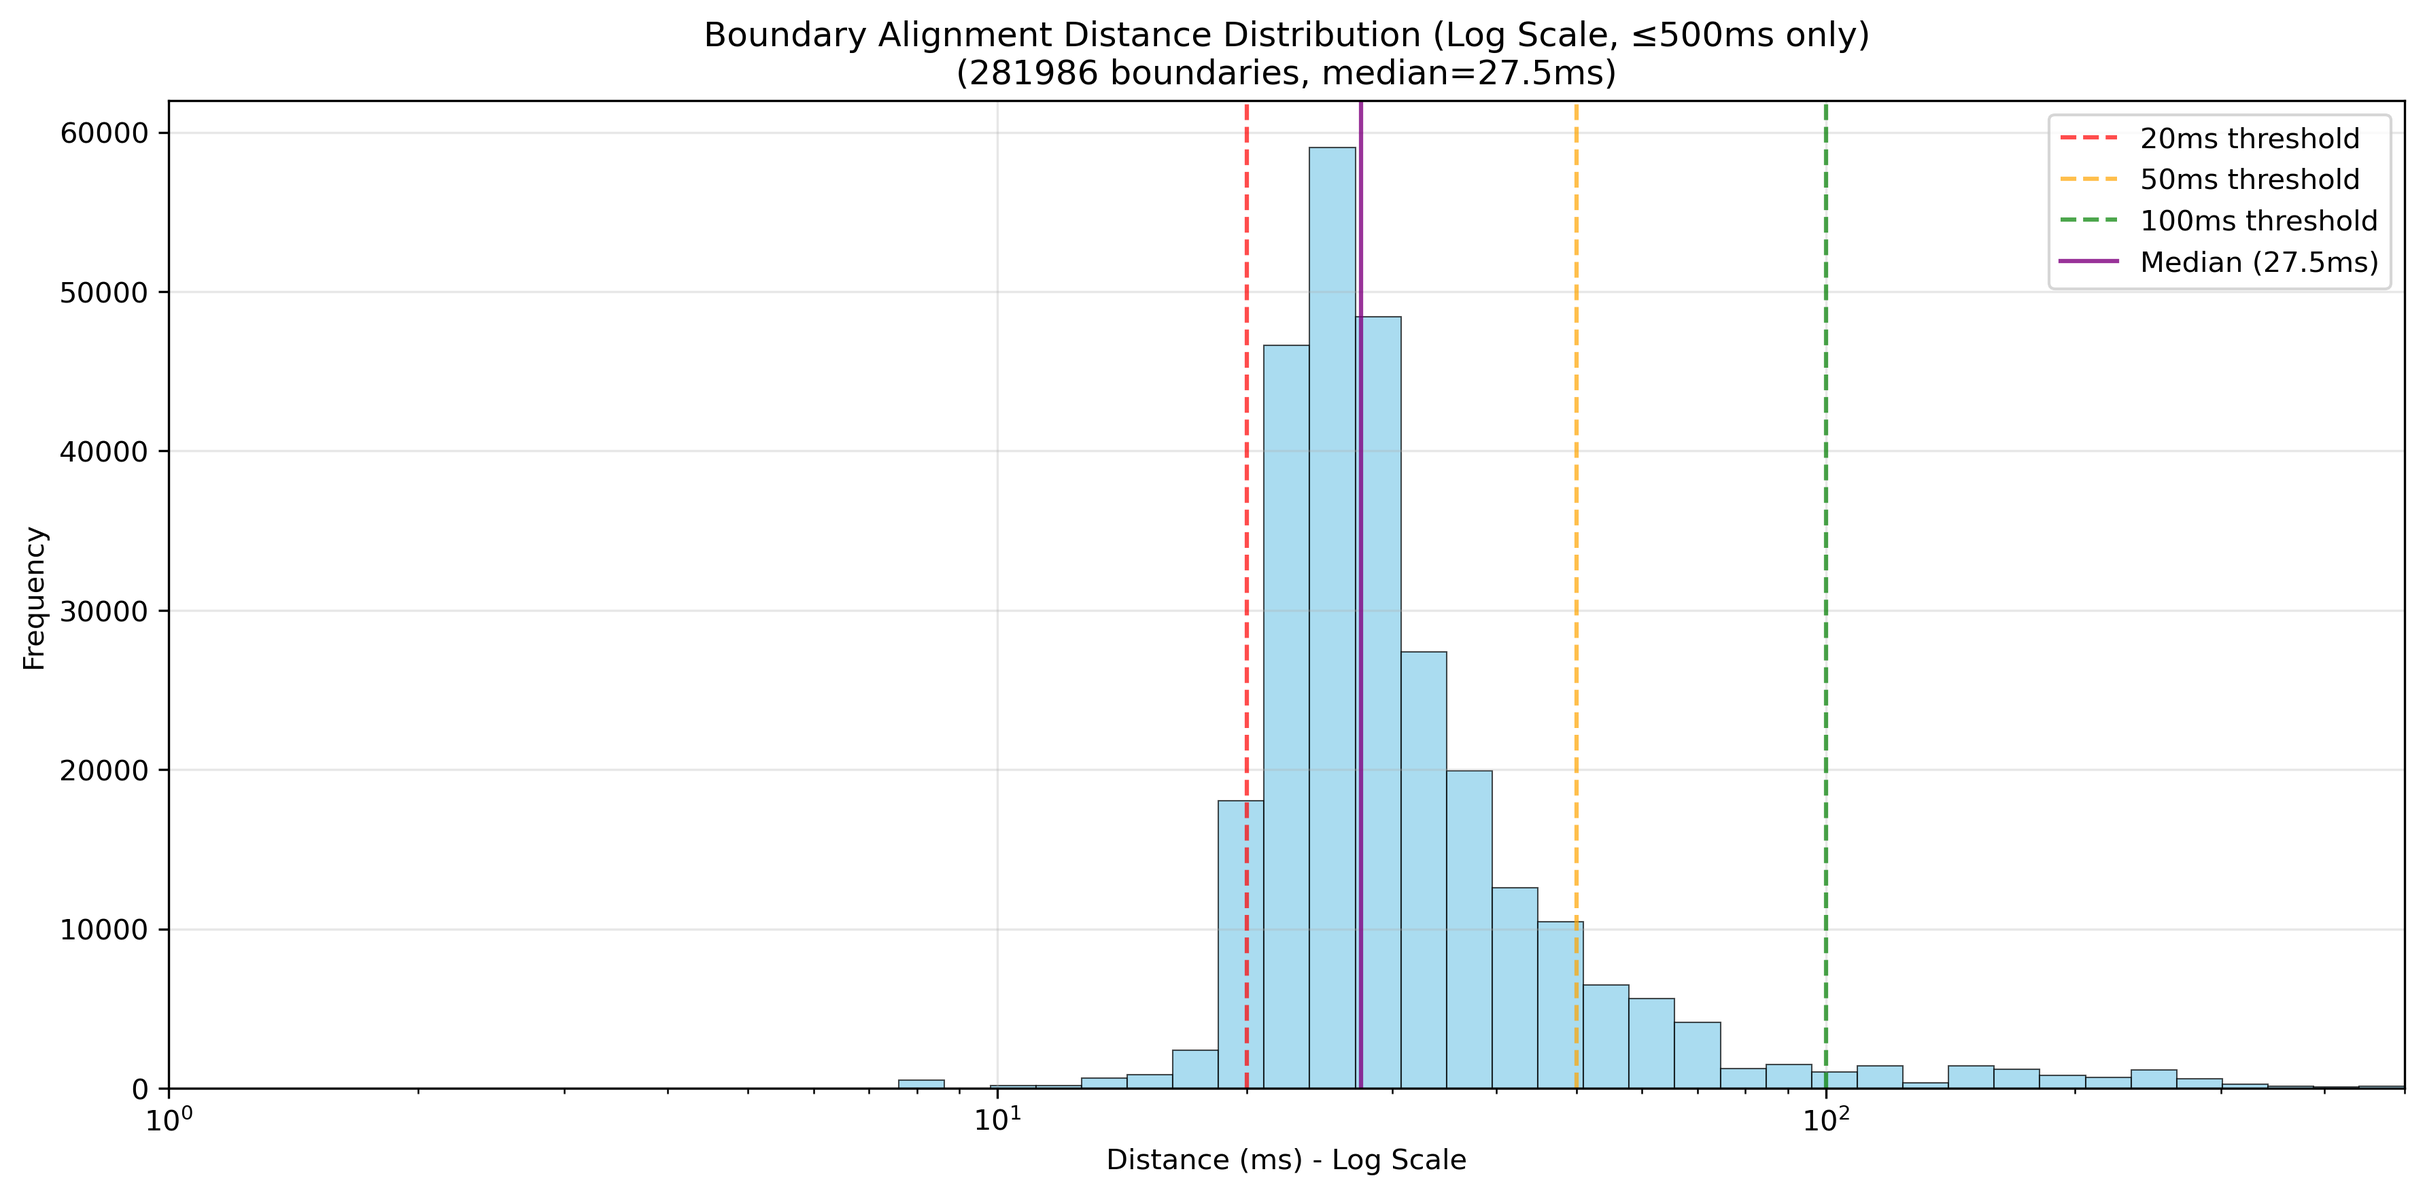
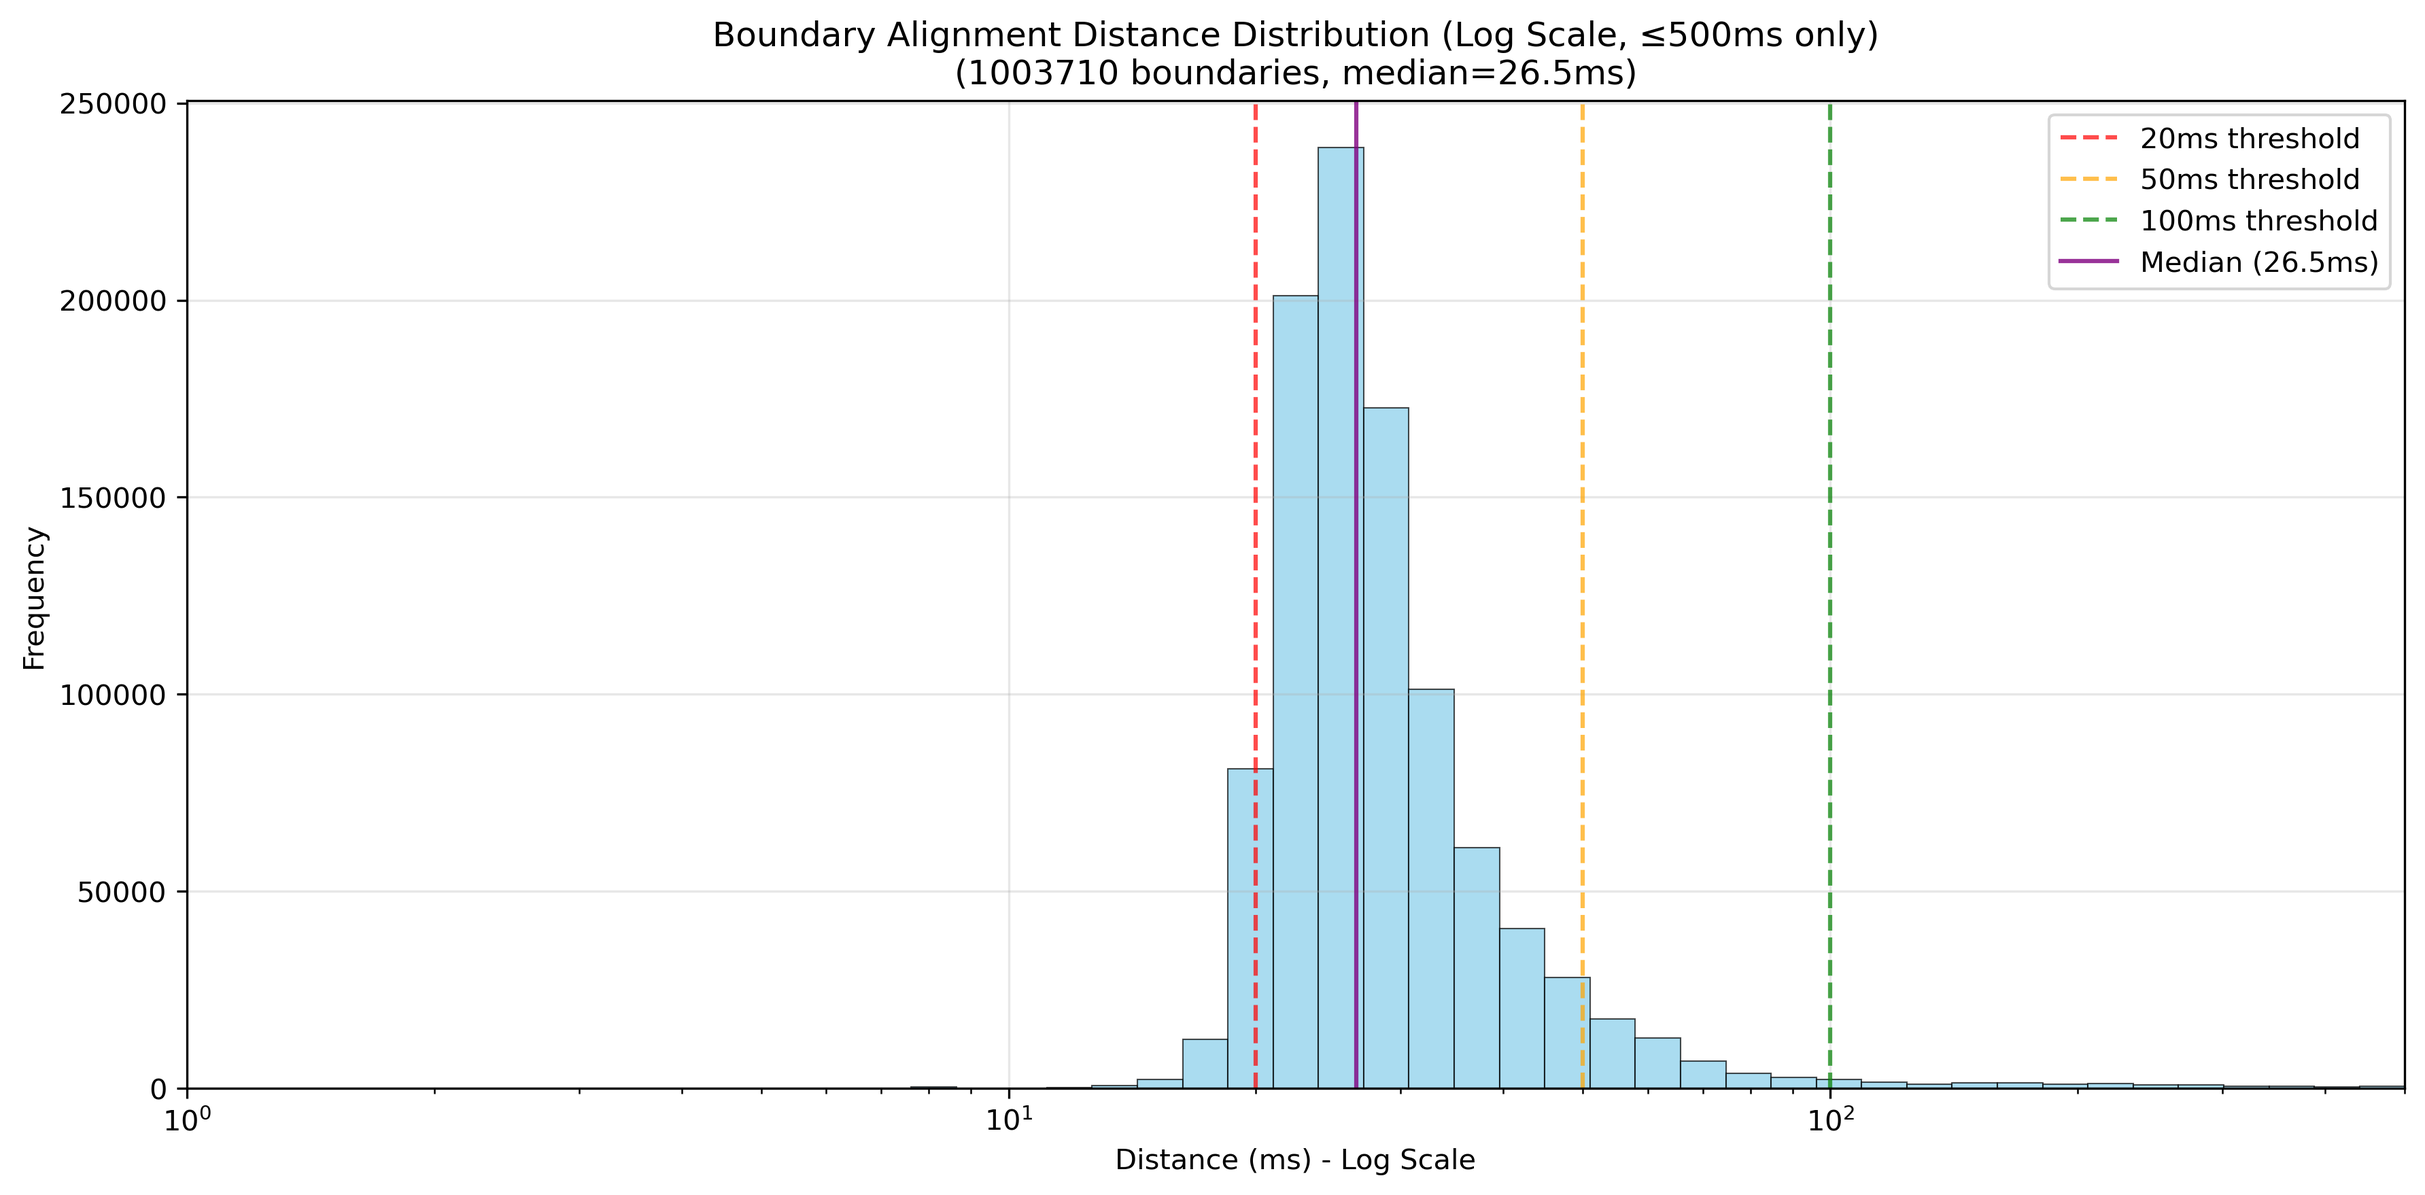
enforce_all_targets=True

diff --git a/bournemouth_aligner/forced_alignment.py b/bournemouth_aligner/forced_alignment.py
@@ -79,7 +79,7 @@ class ViterbiDecoder:
         return modified_log_probs
     
     def decode_with_forced_alignment(self, log_probs, true_sequence, return_scores=False, 
-                                   boost_targets=True, enforce_minimum=True):
+                                   boost_targets=True, enforce_minimum=True, enforce_all_targets=True):
         """
         Decode that ensures all target phonemes are aligned.
         
@@ -89,7 +89,8 @@ class ViterbiDecoder:
             return_scores: Whether to return alignment scores
             boost_targets: Whether to boost target phoneme probabilities
             enforce_minimum: Whether to enforce minimum probabilities
-            
+            enforce_all_targets: Whether to enforce all target phonemes to be present
+
         Returns:
             frame_phonemes: Frame-level phoneme assignments
             alignment_score: Optional alignment score
@@ -127,10 +128,11 @@ class ViterbiDecoder:
         frame_phonemes = self._viterbi_decode(modified_log_probs, ctc_path, ctc_len)
         
         # Post-process to ensure all target phonemes appear
-        frame_phonemes = self._ensure_all_phonemes_aligned(
-            frame_phonemes, true_sequence, modified_log_probs
-        )
-        
+        if enforce_all_targets:
+            frame_phonemes = self._ensure_all_phonemes_aligned(
+                frame_phonemes, true_sequence, modified_log_probs
+            )
+
         if return_scores:
             alignment_score = self._calculate_alignment_score(log_probs, frame_phonemes)
             return frame_phonemes, alignment_score
@@ -345,7 +347,7 @@ class AlignmentUtils: # 2025-08-07
     
     def decode_alignments(self, log_probs, true_seqs=None, pred_lens=None, 
                          true_seqs_lens=None, forced_alignment=True, 
-                         boost_targets=True, enforce_minimum=True):
+                         boost_targets=True, enforce_minimum=True, enforce_all_targets=True):
         """
         Decode alignments with better forced alignment.
         
@@ -357,7 +359,8 @@ class AlignmentUtils: # 2025-08-07
             forced_alignment: Whether to use forced alignment
             boost_targets: Whether to boost target phoneme probabilities
             enforce_minimum: Whether to enforce minimum probabilities
-            
+            enforce_all_targets: Whether to enforce all target phonemes to be present
+
         Returns:
             List of frame-level alignments
         """
@@ -389,7 +392,8 @@ class AlignmentUtils: # 2025-08-07
                             log_probs_seq, 
                             true_seq,
                             boost_targets=boost_targets,
-                            enforce_minimum=enforce_minimum
+                            enforce_minimum=enforce_minimum,
+                            enforce_all_targets=enforce_all_targets
                         )
                     
                     all_frame_phonemes.append(frame_phonemes)

diff --git a/bournemouth_aligner/core.py b/bournemouth_aligner/core.py
@@ -38,7 +38,7 @@ class PhonemeTimestampAligner:
     URL: https://github.com/tabahi/bournemouth-forced-aligner
     """
 
-    def __init__(self, model_name = "en_libri1000_uj01d_e199_val_GER=0.2307.ckpt", cupe_ckpt_path=None, lang='en-us', mapper="ph66", duration_max=10, ms_per_frame=10.0, output_frames_key="phoneme_idx", device="cpu", boost_targets=True, enforce_minimum=True):
+    def __init__(self, model_name = "en_libri1000_uj01d_e199_val_GER=0.2307.ckpt", cupe_ckpt_path=None, lang='en-us', mapper="ph66", duration_max=10, ms_per_frame=10.0, output_frames_key="phoneme_idx", device="cpu", boost_targets=True, enforce_minimum=True, enforce_all_targets=True):
         """
         Initialize the phoneme timestamp extractor.
         
@@ -52,7 +52,8 @@ class PhonemeTimestampAligner:
             output_frames_key: Set which of the ouputs to use to assort frames (using ms_per_frame). Options: "phoneme_idx"(default), "phoneme_label", "group_idx", "group_label"
             device: Device to run inference on
             boost_targets: Boost the probabilities of target phonemes to ensure they can be aligned.
-            enforce_minimum: Ensure target phonemes have minimum probability at each frame.
+            enforce_minimum: Ensure target phonemes meet a minimum probability threshold in the predicted frames.
+            enforce_all_targets: Whether to enforce all target phonemes to be present. Band-aid postprocessing patch: It will insert phonemes missed by viterbi decoding at their expected positions based on targets.
         """
         self.device = device
 
@@ -99,6 +100,7 @@ class PhonemeTimestampAligner:
 
         self.boost_targets = boost_targets
         self.enforce_minimum = enforce_minimum
+        self.enforce_all_targets = enforce_all_targets
 
         # Initialize audio processing
         self.default_resampler = torchaudio.transforms.Resample(
@@ -377,7 +379,8 @@ class PhonemeTimestampAligner:
             true_seqs_lens=ph_seq_lens, 
             forced_alignment=True,
             boost_targets=self.boost_targets,
-            enforce_minimum=self.enforce_minimum
+            enforce_minimum=self.enforce_minimum,
+            enforce_all_targets=self.enforce_all_targets
         )
         
         frame_phonemes = self.alignment_utils_p.decode_alignments(
@@ -387,7 +390,8 @@ class PhonemeTimestampAligner:
             true_seqs_lens=ph_seq_lens, 
             forced_alignment=True,
             boost_targets=self.boost_targets,
-            enforce_minimum=self.enforce_minimum
+            enforce_minimum=self.enforce_minimum,
+            enforce_all_targets=self.enforce_all_targets
         )
         
         

diff --git a/README.md b/README.md
@@ -113,6 +113,7 @@ timestamps = extractor.process_sentence(
     extract_embeddings=False, 
     vspt_path=None, 
     do_groups=True, 
+    compressed_only=False,
     debug=True
 )
 t1 = time.time()
@@ -357,7 +358,8 @@ PhonemeTimestampAligner(
     output_frames_key="phoneme_idx",
     device="cpu",
     boost_targets=True,
-    enforce_minimum=True
+    enforce_minimum=True,
+    enforce_all_targets=True,
 )
 ```
 
@@ -371,6 +373,7 @@ PhonemeTimestampAligner(
 - `device`: Inference device (`cpu` or `cuda`).
 - `boost_targets`: Boost target phoneme probabilities for better alignment.
 - `enforce_minimum`: Enforce minimum probability for target phonemes.
+- `enforce_all_targets`: Band-aid postprocessing patch. It will insert phonemes missed by viterbi decoding at their expected positions based on target positions.
 
 ---
 
@@ -518,9 +521,50 @@ Converts VS2 timestamp data to [Praat TextGrid](https://www.fon.hum.uva.nl/praat
 - `textgrid_content`: TextGrid file content as string.
 
 
-## 📈 Alignment Accuracy
 
-### 🔬 Comparative Analysis
+### 📊 Alignment Error Analysis
+
+**Alignment error histogram on [Buckeye Corpus](https://buckeyecorpus.osu.edu/):**
+
+<div align="center">
+    <img src="examples/samples/images/alignment_distance_histogram_log_500ms.png" alt="Alignment Error Histogram - Buckeye Corpus" width="600"/>
+</div>
+
+- Most phoneme boundaries are aligned within **±40ms** of ground truth.
+- Errors above **500ms** are rare and typically due to ambiguous or noisy segments.
+
+**For comparison:**  
+See [Montreal Forced Aligner](https://www.isca-archive.org/interspeech_2017/mcauliffe17_interspeech.pdf) for benchmark results on similar datasets.
+
+
+**Alignment Statistics for 245 files in Buckeye Corpus:**
+- **Model used**: "en_libri1000_uj01d_e199_val_GER=0.2307.ckpt"
+- **Segment max duration**: 60s
+- **Total SRT boundaries (ground truth):** 1,519,843  
+- **VS boundaries (predicted):** 1,003,710  
+- **Boundary ratio (SRT/VS):** 1.51
+
+**Alignment error:**
+- **Mean distance:** 31.4 ms  
+- **Median distance:** 26.5 ms  
+- **Standard deviation:** 24.3 ms
+
+**Accuracy within time thresholds:**
+- **≤20 ms:** 38.8%  
+- **≤50 ms:** 65.4%  
+- **≤100 ms:** 74.3%
+
+> These results demonstrate high phoneme-level alignment precision, with most boundaries detected within 50 ms of ground truth.
+
+
+
+> ⚠ **Best Performance**: For optimal results, use audio segments **under 30 seconds**. For longer audio, segment first using Whisper or VAD. Audio duration above 60 seconds creates too many possibilities for the Viterbi algorithm to handle properly.
+
+
+---
+
+
+## 🔬 Comparison with MFA
 
 Our alignment quality compared to Montreal Forced Aligner (MFA) using [Praat](https://www.fon.hum.uva.nl/praat/) TextGrid visualization:
 
@@ -556,44 +600,124 @@ Our alignment quality compared to Montreal Forced Aligner (MFA) using [Praat](ht
 ### 🔄 Processing Pipeline
 
 ```mermaid
-graph LR
-    A[Audio Input] --> B[CUPE Feature Extraction]
-    B --> C[Phoneme Probabilities]
-    C --> D[Viterbi Algorithm]
-    D --> E[Forward/Backward Tracing]
-    E --> F[Timestamp Alignment]
-    F --> G[Confidence Scoring]
+graph TD
+    A[Audio Input] --> B[RMS Normalization]
+    B --> C[Audio Windowing]
+    C --> D[CUPE Model Inference]
+    D --> E[Phoneme/Group Probabilities]
+    E --> F[Text Phonemization]
+    F --> G[Target Boosting]
+    G --> H[Viterbi Forced Alignment]
+    H --> I[Missing Phoneme Recovery]
+    I --> J[Confidence Calculation]
+    J --> K[Frame-to-Time Conversion]
+    K --> L[Output Generation]
 ```
+
+### 🔍 Viterbi Algorithm Details
+
+```mermaid
+graph TD
+    A[Target Sequence: /b/ /ʌ/ /t/] --> B[Create CTC Path]
+    B --> C[CTC Path: BLANK-b-BLANK-ʌ-BLANK-t-BLANK]
+    C --> D[Initialize DP Table]
+    D --> E[Frame t=0: Set initial probabilities]
+    E --> F[For each frame t=1 to T]
+    F --> G[For each CTC state s]
+    G --> H{Can Stay?}
+    H -->|Yes| I[Stay: DP[t-1,s] + log_prob[t,phoneme[s]]]
+    G --> J{Can Advance?}
+    J -->|Yes| K[Advance: DP[t-1,s-1] + log_prob[t,phoneme[s]]]
+    G --> L{Can Skip?}
+    L -->|Yes| M[Skip: DP[t-1,s-2] + log_prob[t,phoneme[s]]]
+    I --> N[Take Maximum Score]
+    K --> N
+    M --> N
+    N --> O[Store Best Transition]
+    O --> P{More States?}
+    P -->|Yes| G
+    P -->|No| Q{More Frames?}
+    Q -->|Yes| F
+    Q -->|No| R[Backtrack from Best Final State]
+    R --> S[Extract Frame-to-Phoneme Alignment]
+    S --> T{enforce_all_targets?}
+    T -->|Yes| U[Check Missing Phonemes]
+    U --> V[Force-align Missing Phonemes]
+    V --> W[Final Alignment]
+    T -->|No| W
+```
+
+**CTC Transition Rules:**
+- **Stay**: Remain in current state (repeat phoneme or blank)
+- **Advance**: Move to next state in sequence
+- **Skip**: Jump over blank to next phoneme (when consecutive phonemes differ)
 
 **Core Components:**
 
-1. **🎵 CUPE Integration**: Extracts phoneme probabilities from [CUPE models](https://huggingface.co/Tabahi/CUPE-2i)
-2. **🧮 Viterbi Algorithm**: Performs optimal path finding through probability matrices
-3. **🔄 Forward/Backward Tracing**: Identifies precise phoneme boundaries
-4. **📊 Confidence Scoring**: Provides alignment quality metrics
+1. **🎵 Audio Preprocessing**: RMS normalization and windowing (120ms windows, 80ms stride)
+2. **🧠 CUPE Model**: Contextless Universal Phoneme Encoder extracts frame-level phoneme probabilities
+3. **📝 Phonemization**: espeak-ng converts text to 66-class phoneme indices (ph66) and 16 phoneme groups (pg16)
+4. **🎯 Target Boosting**: Enhances probabilities of expected phonemes for better alignment
+5. **🔍 CTC style Viterbi**: CTC-based forced alignment with minimum probability enforcement
+6. **🛠 Recovery Mechanism**: Ensures all target phonemes appear in alignment, even with low confidence
+7. **📊 Confidence Scoring**: Frame-level probability averaging with adaptive thresholding
+8. **⏱ Timestamp Conversion**: Frame indices to millisecond timestamps with segment offset
 
-> **Performance Note**: The algorithm is CPU-optimized due to iterative loops. GPU acceleration is planned for future releases.
+### 🎛 Key Alignment Parameters
 
+BFA provides several unique control parameters not available in traditional aligners like MFA:
 
-> **Note**: Timing distance error is ~40ms on TIMIT dataset. BFA excels in real-time applications where MFA's 5x slower processing becomes prohibitive.
-### 📊 Alignment Error Analysis
+#### 🎯 `boost_targets` (Default: `True`)
+Increases log-probabilities of expected phonemes by a fixed boost factor (typically +5.0) before Viterbi decoding. If the sentence is very long or contains every possible phoneme, then boosting them all equally doesn't have much effect—because no phoneme stands out more than the others.
 
-**Alignment error histogram on [Buckeye Corpus](https://buckeyecorpus.osu.edu/):**
+**When it helps:**
+- **Cross-lingual scenarios**: Using English models on other languages where some phonemes are underrepresented
+- **Noisy audio**: When target phonemes have very low confidence but should be present
+- **Domain mismatch**: When model training data differs significantly from your audio
 
-<div align="center">
-    <img src="examples/samples/images/alignment_distance_histogram_log_500ms.png" alt="Alignment Error Histogram - Buckeye Corpus" width="600"/>
-</div>
+**Important caveat:** For monolingual sentences, boosting affects ALL phonemes in the target sequence equally, making it equivalent to no boosting. The real benefit comes when using multilingual models or when certain phonemes are systematically underrepresented.
 
-- Most phoneme boundaries are aligned within **±40ms** of ground truth.
-- Errors above **500ms** are rare and typically due to ambiguous or noisy segments.
+#### 🛡 `enforce_minimum` (Default: `True`) 
+Ensures every target phoneme has at least a minimum probability (default: 1e-8) at each frame, preventing complete elimination during alignment.
 
-**For comparison:**  
-See [Montreal Forced Aligner](https://www.isca-archive.org/interspeech_2017/mcauliffe17_interspeech.pdf) for benchmark results on similar datasets.
+**Why this matters:**
+- Prevents target phonemes from being "zeroed out" by the model
+- Guarantees that even very quiet or unclear phonemes can be aligned
+- Helps for highly noisy audio in which all phonemes, not just targets, have extremely low probabilities.
 
+#### 🔒 `enforce_all_targets` (Default: `True`)
+**This is BFA's key differentiator from MFA.** After Viterbi decoding, BFA applies post-processing to guarantee that every target phoneme is present in the final alignment—even those with low acoustic probability. However, **downstream tasks can filter out these "forced" phonemes using their confidence scores**. For practical use, consider setting a confidence threshold  e.g., `timestamps["phoneme_ts"][p]["confidence"] <0.05`) to exclude phonemes that were aligned with little to no acoustic evidence.
 
+**Recovery mechanism:**
+1. Identifies any missing target phonemes after initial alignment
+2. Finds frames with highest probability for each missing phoneme
+3. Strategically inserts missing phonemes by:
+   - Replacing blank frames when possible
+   - Searching nearby frames within a small radius
+   - Force-replacing frames as last resort
 
+**Use cases:**
+- **Guaranteed coverage**: When you need every phoneme to be timestamped
+- **Noisy environments**: Where some phonemes might be completely missed by standard Viterbi
+- **Research applications**: When completeness is more important than probabilistic accuracy
 
-> ⚠ **Best Performance**: For optimal results, use audio segments **under 30 seconds**. For longer audio, segment first using Whisper or VAD. Audio duration above 60 seconds creates too many possibilities for the Viterbi algorithm to handle properly.
+#### ⚖ Parameter Interaction Effects
+
+| Scenario | Recommended Settings | Outcome |
+|----------|---------------------|---------|
+| **Clean monolingual audio** | All defaults | Standard high-quality alignment |
+| **Cross-lingual/noisy** | `boost_targets=True` | Better phoneme recovery |
+| **Research/completeness** | `enforce_all_targets=True` | 100% phoneme coverage |
+| **Probabilistically strict** | `enforce_all_targets=False` | Only high-confidence alignments |
+
+**Technical Details:**
+
+- **Audio Processing**: 16kHz sampling, sliding window approach for long audio
+- **Model Architecture**: Pre-trained CUPE-2i models from [HuggingFace](https://huggingface.co/Tabahi/CUPE-2i)  
+- **Alignment Strategy**: CTC path construction with blank tokens between phonemes
+- **Quality Assurance**: Post-processing ensures 100% target phoneme coverage (when enabled)
+
+> **Performance Note**: CPU-optimized implementation. The iterative Viterbi algorithm and windowing operations are designed for single-threaded efficiency. Most operations are vectorized where possible, so batch processing should be faster on GPUs.
 
 
 ---
